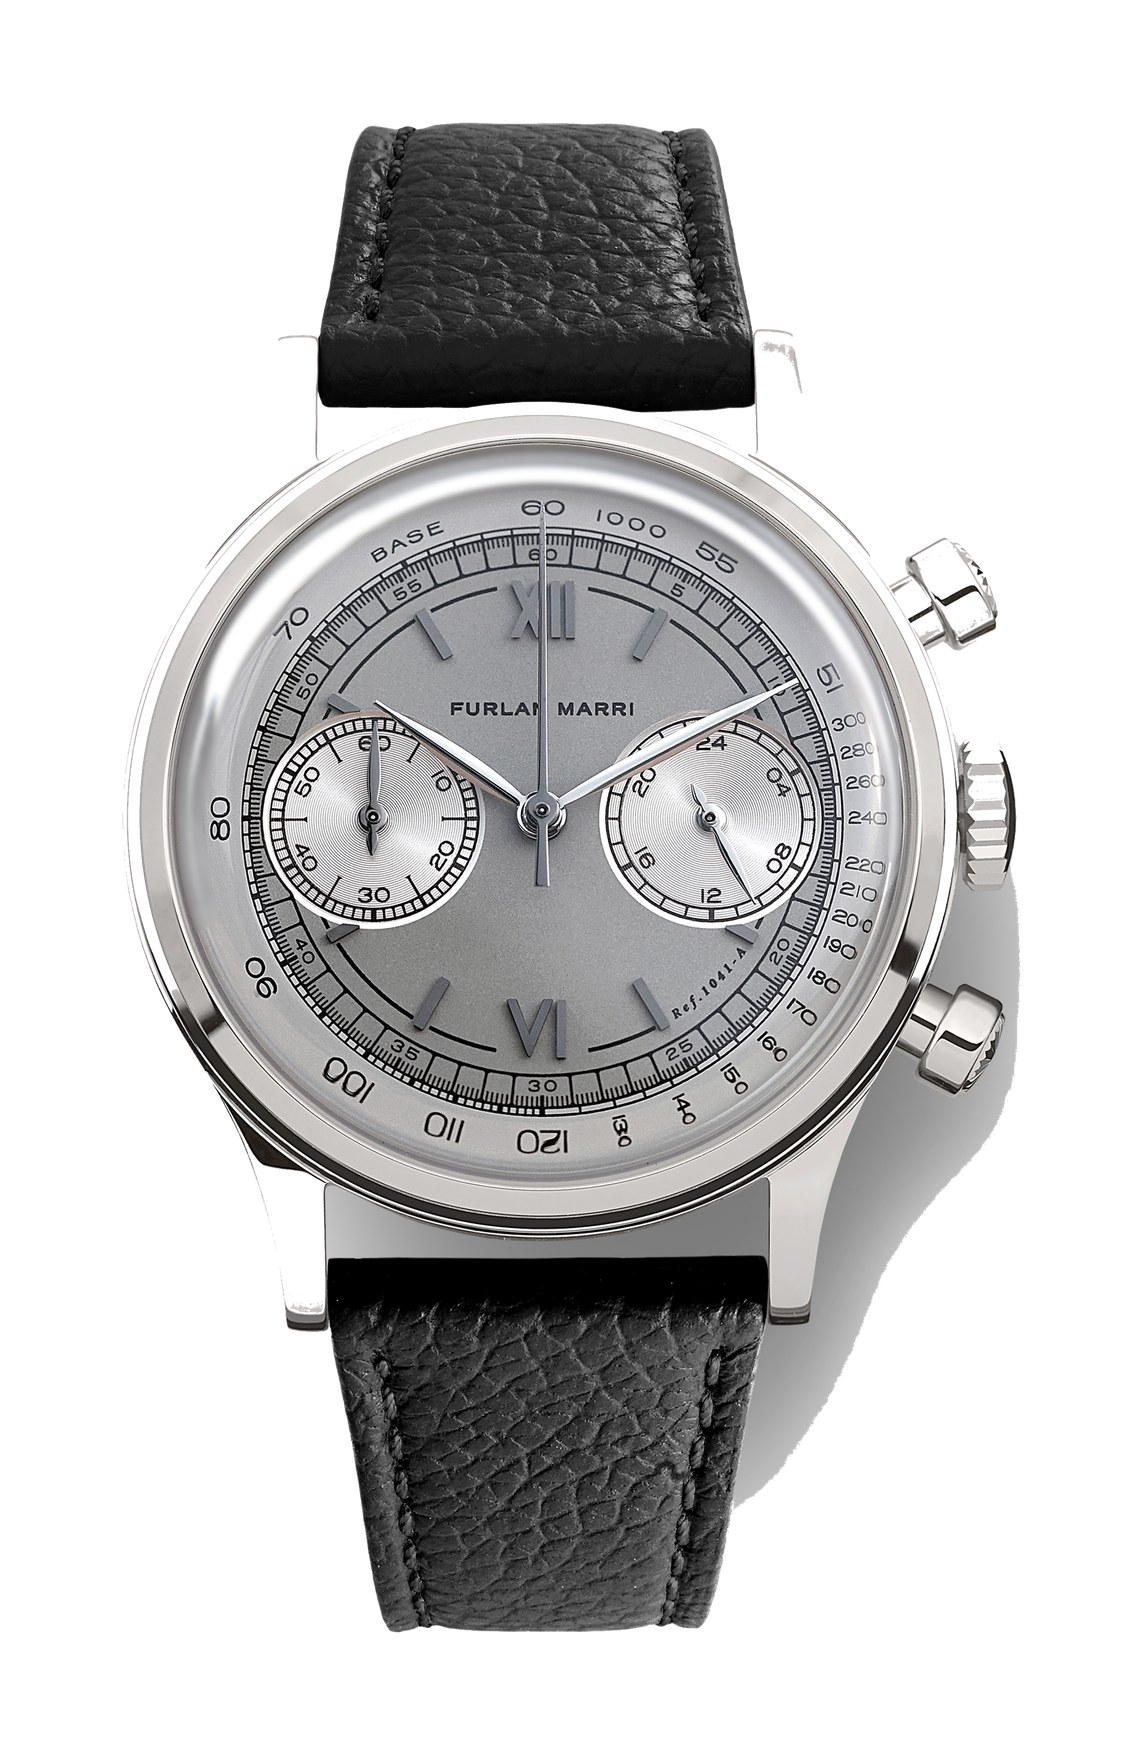
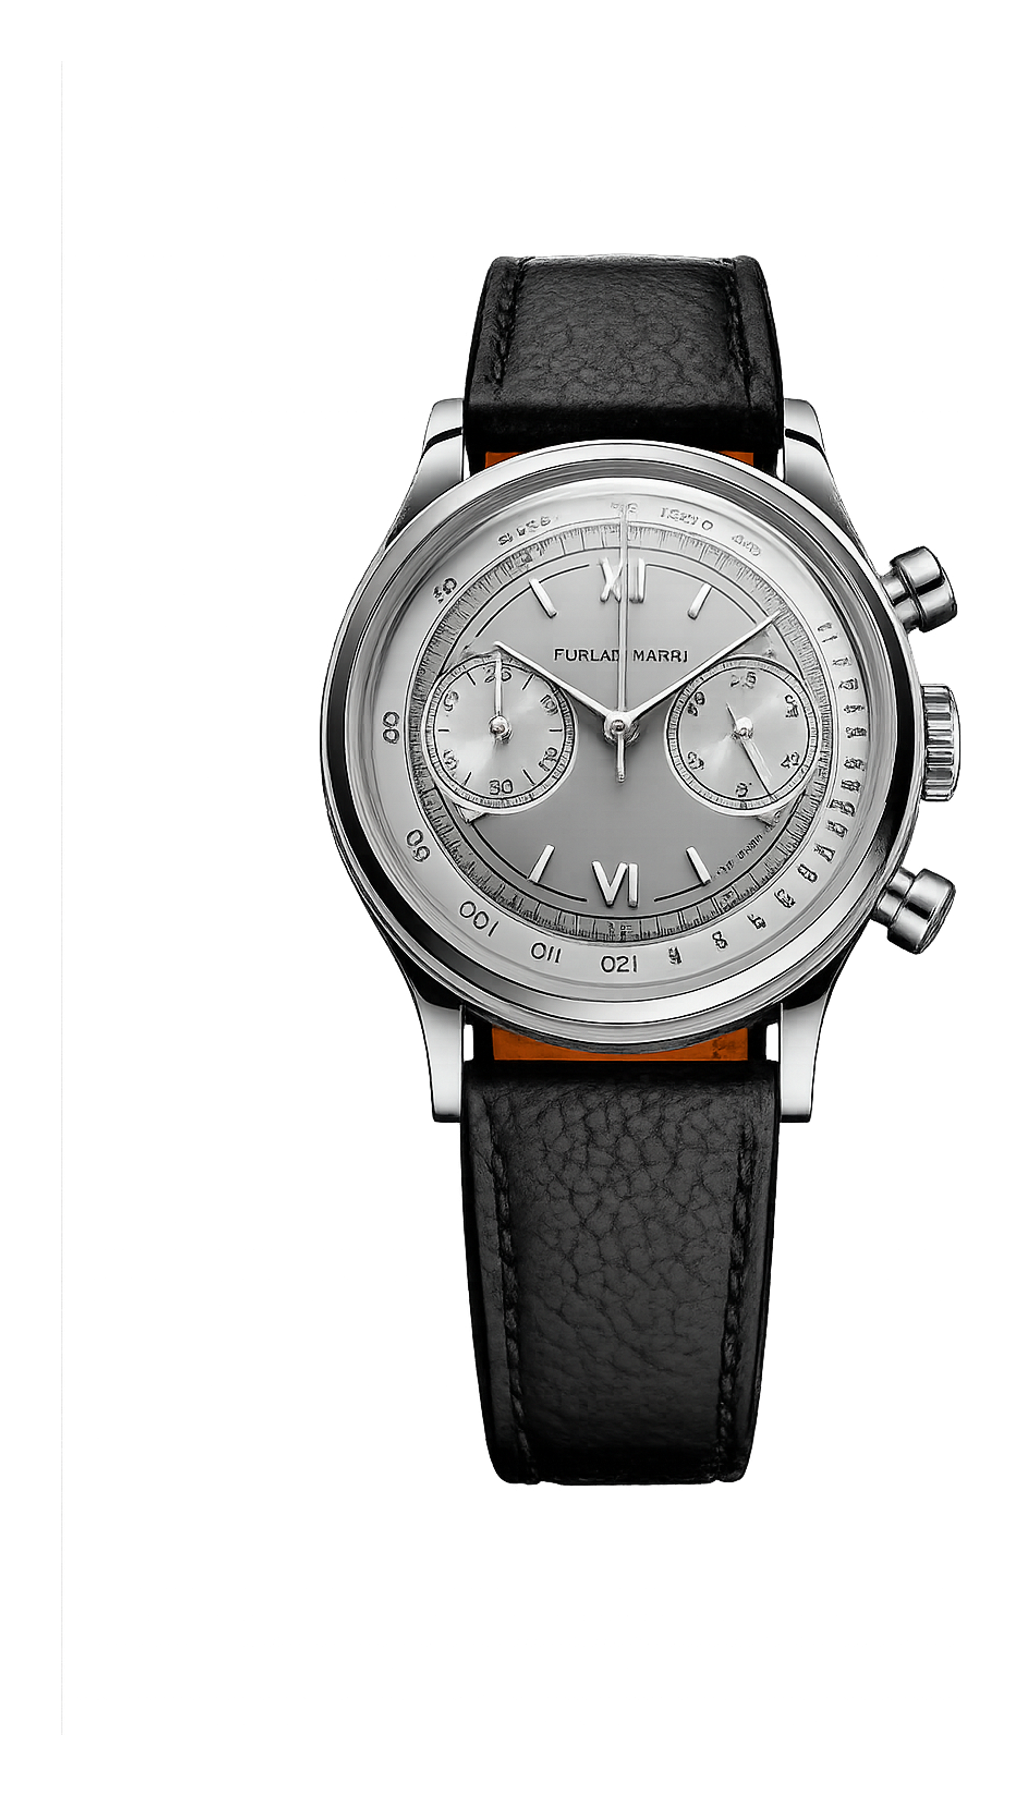
Furlan Marri: nyitókép, és a két kép a te kivágásoddal
A Mr. Grey és az AREA 51 mostantól a te átlátszó hátterű változatod —
nincs rájuk szükség automatikus háttéreltávolításra, csak vágás és
keret. Az AREA 51 így PNG lett, nem JPEG.

Nyitókép: a saját szerkesztésed, 16:7-re vágva (felülről 60 képponttal,
így a fejek fölött marad levegő és a márkanév függőlegesen középen ül).

A kártyák 4:3-ra vágnak, és a márkanév a kép bal 35%-át foglalja — a
középre vágás félbevágta volna. Ezért a cover kapott egy `focus` mezőt:
CSS object-position érték, ami megmondja, hova nézzen a kártya. Itt
'right', így a vágásba csak a két alapító kerül, a márkanév kimarad.
A cikk élén nincs hatása, ott a kép a maga arányában áll.

A hitel elmondja, hogy az alapítók fotói a furlanmarri.com-ról vannak,
az összeállítás viszont sajátunk.

diff --git a/src/content.config.ts b/src/content.config.ts
@@ -40,6 +40,14 @@ const posts = defineCollection({
           src: image(),
           /** Mit ábrázol — képernyőolvasóknak és ha nem tölt be a kép. */
           alt: z.string(),
+          /**
+           * Hova nézzen a kártya, amikor 4:3-ra vágja a képet. CSS
+           * `object-position` érték, pl. `'right'`, `'left'`, `'70% center'`.
+           * Alapból középre vág. Akkor kell, ha a kép egyik szélén olyasmi van
+           * (felirat, márkanév), amit a középre vágás félbevágna.
+           * A cikk élén nincs hatása: ott a kép a maga arányában áll.
+           */
+          focus: z.string().optional(),
           /** Kinek a képe: fotós vagy forrás neve, ahogy ő kéri. */
           credit: z.string(),
           /** Hivatkozás az eredetire (fotós oldala, gyűjtemény, Wikimedia-lap). */

diff --git a/src/content/posts/hu/furlan-marri.md b/src/content/posts/hu/furlan-marri.md
@@ -6,6 +6,13 @@ column: 'in-hand'
 lang: 'hu'
 translationKey: 'furlan-marri'
 minutes: 8
+cover:
+  src: '../_images/furlan-marri-nyitokep.jpg'
+  alt: 'Andrea Furlan és Hamad Al Marri, a Furlan Marri alapítói, meleg papírszínű háttér előtt; balra a márkanév'
+  # A kártyák 4:3-ra vágnak: jobbra fókuszálva a márkanév kimarad a vágásból,
+  # így nem félbevágva jelenik meg.
+  focus: 'right'
+  credit: 'Alapítók fotói: Furlan Marri (furlanmarri.com) · összeállítás: Lume'
 sources:
   - label: 'Furlan Marri: Our Story és hivatalos oldal'
     url: 'https://furlanmarri.com/'
@@ -50,7 +57,7 @@ A Furlan Marri néhány év alatt eljutott a Kickstartertől az aukciósházakig
 
 2025-ben a Sotheby's egyik aukciójára a Furlan Marri egyetlen, egyedi darabot készített: a Disco Volante **AREA 51**-et. A tokja **tantálból** van, egy sötét, kékesszürke, ritka fém, amely rendkívül kemény, sűrű és korrózióálló, cserébe pokolian nehéz megmunkálni. Épp ezért ritkaság az órákban: pár nagy ház nyúlt hozzá (Panerai, F.P. Journe), egy microbrandtől viszont merész gesztus.
 
-![A Furlan Marri Disco Volante AREA 51 szürke meteoritszámlappal és szürke szíjon, sötét, meteoritmintás háttér előtt](../_images/furlan-marri-area51-tantal.jpg)
+![A Furlan Marri Disco Volante AREA 51 szürke meteoritszámlappal, szürke bőrszíjon](../_images/furlan-marri-area51-tantal.png)
 *Disco Volante AREA 51: egyedi darab, tantáltok, meteoritszámlap, 2025. Fotó: EveryWatch (everywatch.com)*
 
 A számlap ráadásul valódi **meteorit**, és az egész a márka játékos „repülő csészealj" témájára játszik rá: egy darab az űrből, egy csészealj alakú tokban. Egy egyedi tantálóra egy microbrandtől, aukciósháznak, négy évvel a 35 másodperces indulás után. Ennél tömörebben nehéz összefoglalni, mennyit nőtt ez a márka.

diff --git a/src/content/posts/en/furlan-marri.md b/src/content/posts/en/furlan-marri.md
@@ -6,6 +6,13 @@ column: 'in-hand'
 lang: 'en'
 translationKey: 'furlan-marri'
 minutes: 8
+cover:
+  src: '../_images/furlan-marri-nyitokep.jpg'
+  alt: 'Andrea Furlan and Hamad Al Marri, the founders of Furlan Marri, against a warm paper background, with the brand name on the left'
+  # Cards crop to 4:3: focusing right keeps the brand name out of the crop,
+  # so it never appears sliced in half.
+  focus: 'right'
+  credit: 'Founder photos: Furlan Marri (furlanmarri.com) · composite: Lume'
 sources:
   - label: 'Furlan Marri: Our Story and official site'
     url: 'https://furlanmarri.com/'
@@ -50,7 +57,7 @@ In just a few years Furlan Marri went from Kickstarter to the auction houses, wi
 
 In 2025, for one of Sotheby's auctions, Furlan Marri made a single, unique piece: the Disco Volante **AREA 51**. Its case is made of **tantalum**, a dark, bluish-grey, rare metal that is extremely hard, dense and corrosion-resistant, but fiendishly difficult to machine. That is exactly why it is a rarity in watches: a few large houses have reached for it (Panerai, F.P. Journe), but from a microbrand it is a bold gesture.
 
-![The Furlan Marri Disco Volante AREA 51 with a grey meteorite dial on a grey strap, against a dark meteorite-patterned background](../_images/furlan-marri-area51-tantal.jpg)
+![The Furlan Marri Disco Volante AREA 51 with a grey meteorite dial on a grey leather strap](../_images/furlan-marri-area51-tantal.png)
 *Disco Volante AREA 51: a unique piece, a tantalum case, a meteorite dial, 2025. Photo: EveryWatch (everywatch.com)*
 
 The dial, moreover, is real **meteorite**, and the whole thing plays on the brand's playful "flying saucer" theme: a piece from space, in a saucer-shaped case. A one-off tantalum watch from a microbrand, for an auction house, four years after a 35-second launch. It is hard to sum up more concisely how much this brand has grown.
